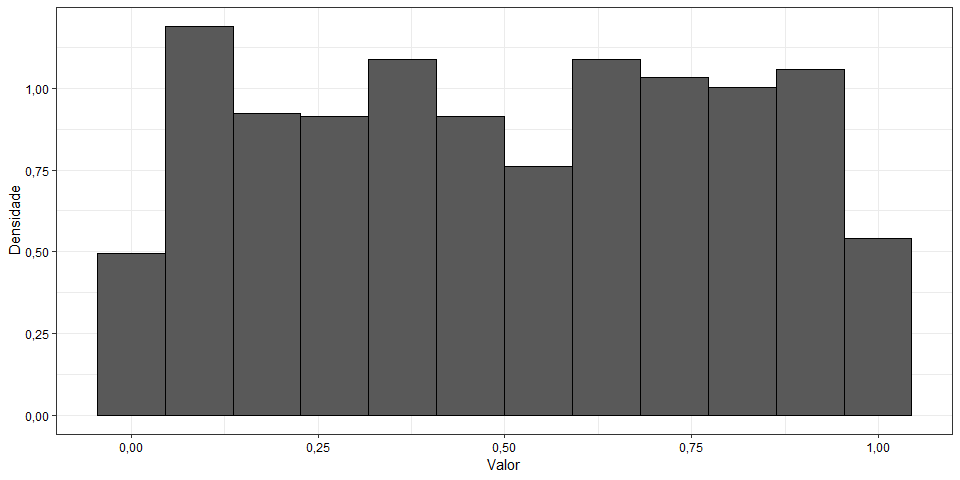
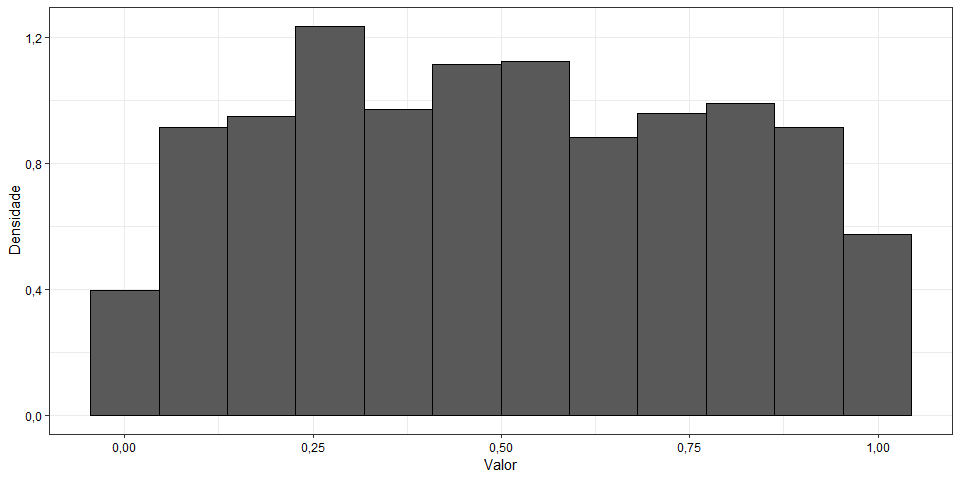
12/05/2019

diff --git a/Tarefa 0/Script_Tarefa0.md b/Tarefa 0/Script_Tarefa0.md
@@ -336,13 +336,13 @@ Variância
 
 <td style="text-align:center;color: black !important;background-color: white !important;">
 
-0,302
+0,285
 
 </td>
 
 <td style="text-align:center;color: black !important;background-color: white !important;">
 
-0,211
+0,204
 
 </td>
 
@@ -396,7 +396,7 @@ Variância
 
 <td style="text-align:center;color: black !important;background-color: white !important;">
 
-0,400
+0,600
 
 </td>
 
@@ -456,13 +456,13 @@ Variância
 
 <td style="text-align:center;color: black !important;background-color: white !important;">
 
-\-0,011
+0,006
 
 </td>
 
 <td style="text-align:center;color: black !important;background-color: white !important;">
 
-1,057
+0,909
 
 </td>
 
@@ -533,41 +533,19 @@ Probabilidade (em
 
 <td style="text-align:center;color: black !important;background-color: white !important;">
 
-\-0.4743866
+0.3825773
 
 </td>
 
 <td style="text-align:center;color: black !important;background-color: white !important;">
 
-0.0227609
+0.1715861
 
 </td>
 
 <td style="text-align:center;color: black !important;background-color: white !important;">
 
-2,28%
-
-</td>
-
-</tr>
-
-<tr>
-
-<td style="text-align:center;color: black !important;background-color: white !important;">
-
-\-0.3873599
-
-</td>
-
-<td style="text-align:center;color: black !important;background-color: white !important;">
-
-0.0282565
-
-</td>
-
-<td style="text-align:center;color: black !important;background-color: white !important;">
-
-2,83%
+17,16%
 
 </td>
 
@@ -577,41 +555,19 @@ Probabilidade (em
 
 <td style="text-align:center;color: black !important;background-color: white !important;">
 
-\-0.1694357
+1.6338553
 
 </td>
 
 <td style="text-align:center;color: black !important;background-color: white !important;">
 
-0.0482429
+0.8342885
 
 </td>
 
 <td style="text-align:center;color: black !important;background-color: white !important;">
 
-4,82%
-
-</td>
-
-</tr>
-
-<tr>
-
-<td style="text-align:center;color: black !important;background-color: white !important;">
-
-\-0.8614206
-
-</td>
-
-<td style="text-align:center;color: black !important;background-color: white !important;">
-
-0.0086063
-
-</td>
-
-<td style="text-align:center;color: black !important;background-color: white !important;">
-
-0,86%
+83,43%
 
 </td>
 
@@ -621,19 +577,19 @@ Probabilidade (em
 
 <td style="text-align:center;color: black !important;background-color: white !important;">
 
-\-1.3295221
+1.1129235
 
 </td>
 
 <td style="text-align:center;color: black !important;background-color: white !important;">
 
-0.0026244
+0.5714954
 
 </td>
 
 <td style="text-align:center;color: black !important;background-color: white !important;">
 
-0,26%
+57,15%
 
 </td>
 
@@ -643,19 +599,63 @@ Probabilidade (em
 
 <td style="text-align:center;color: black !important;background-color: white !important;">
 
-0.1654043
+\-0.4061010
 
 </td>
 
 <td style="text-align:center;color: black !important;background-color: white !important;">
 
-0.1063842
+0.0269735
 
 </td>
 
 <td style="text-align:center;color: black !important;background-color: white !important;">
 
-10,64%
+2,70%
+
+</td>
+
+</tr>
+
+<tr>
+
+<td style="text-align:center;color: black !important;background-color: white !important;">
+
+0.8452799
+
+</td>
+
+<td style="text-align:center;color: black !important;background-color: white !important;">
+
+0.4026257
+
+</td>
+
+<td style="text-align:center;color: black !important;background-color: white !important;">
+
+40,26%
+
+</td>
+
+</tr>
+
+<tr>
+
+<td style="text-align:center;color: black !important;background-color: white !important;">
+
+\-0.0546933
+
+</td>
+
+<td style="text-align:center;color: black !important;background-color: white !important;">
+
+0.0635977
+
+</td>
+
+<td style="text-align:center;color: black !important;background-color: white !important;">
+
+6,36%
 
 </td>
 
